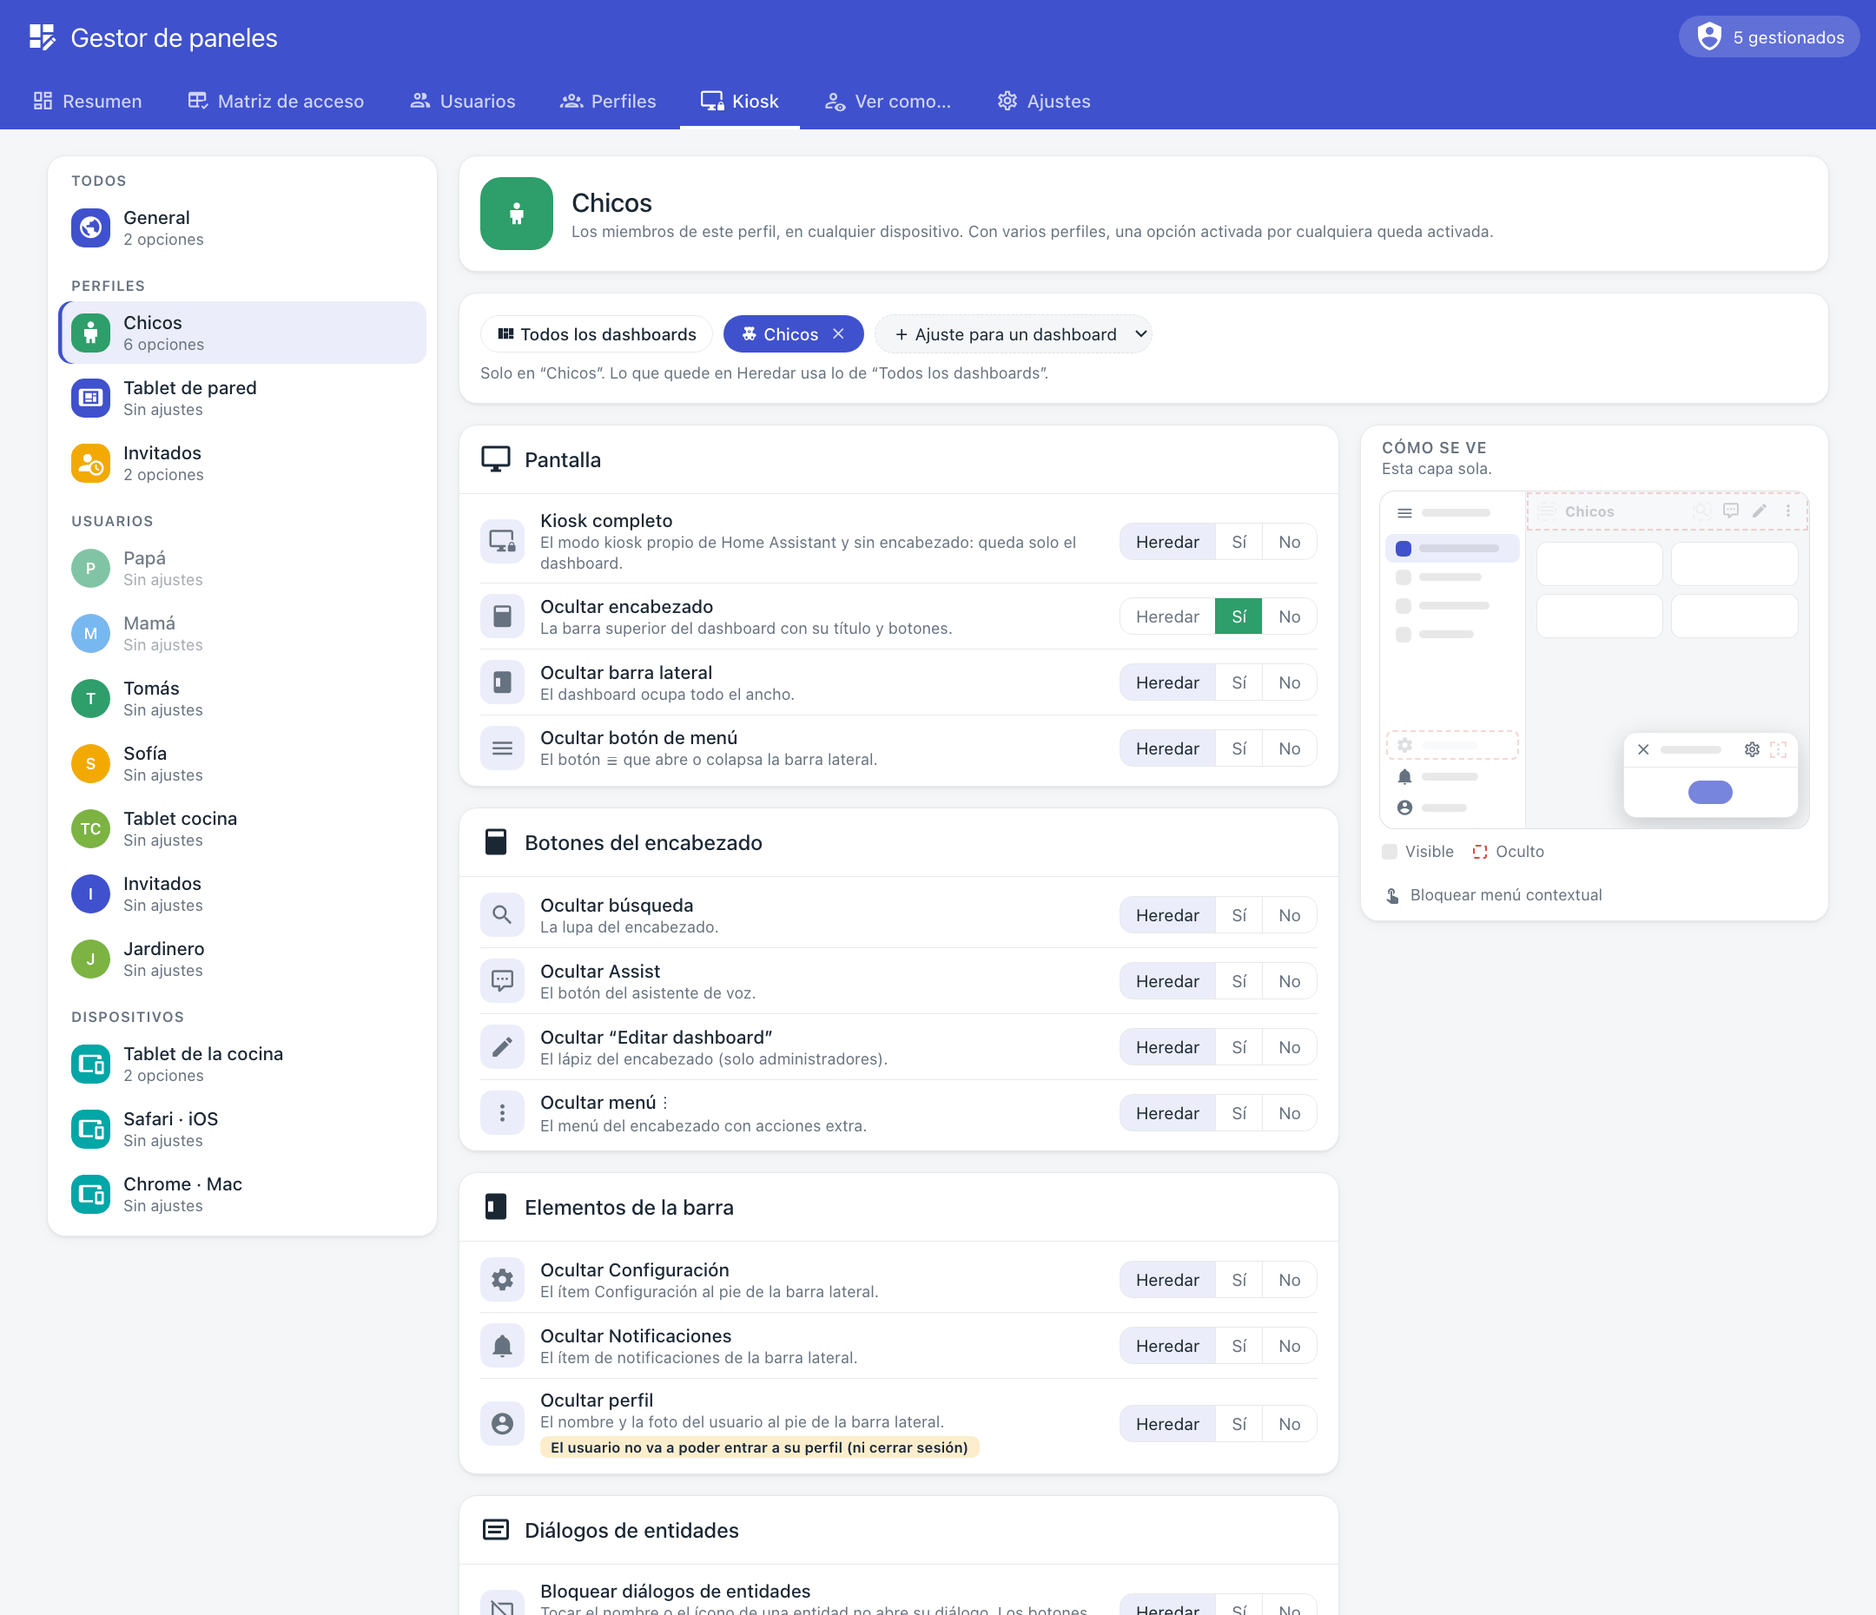
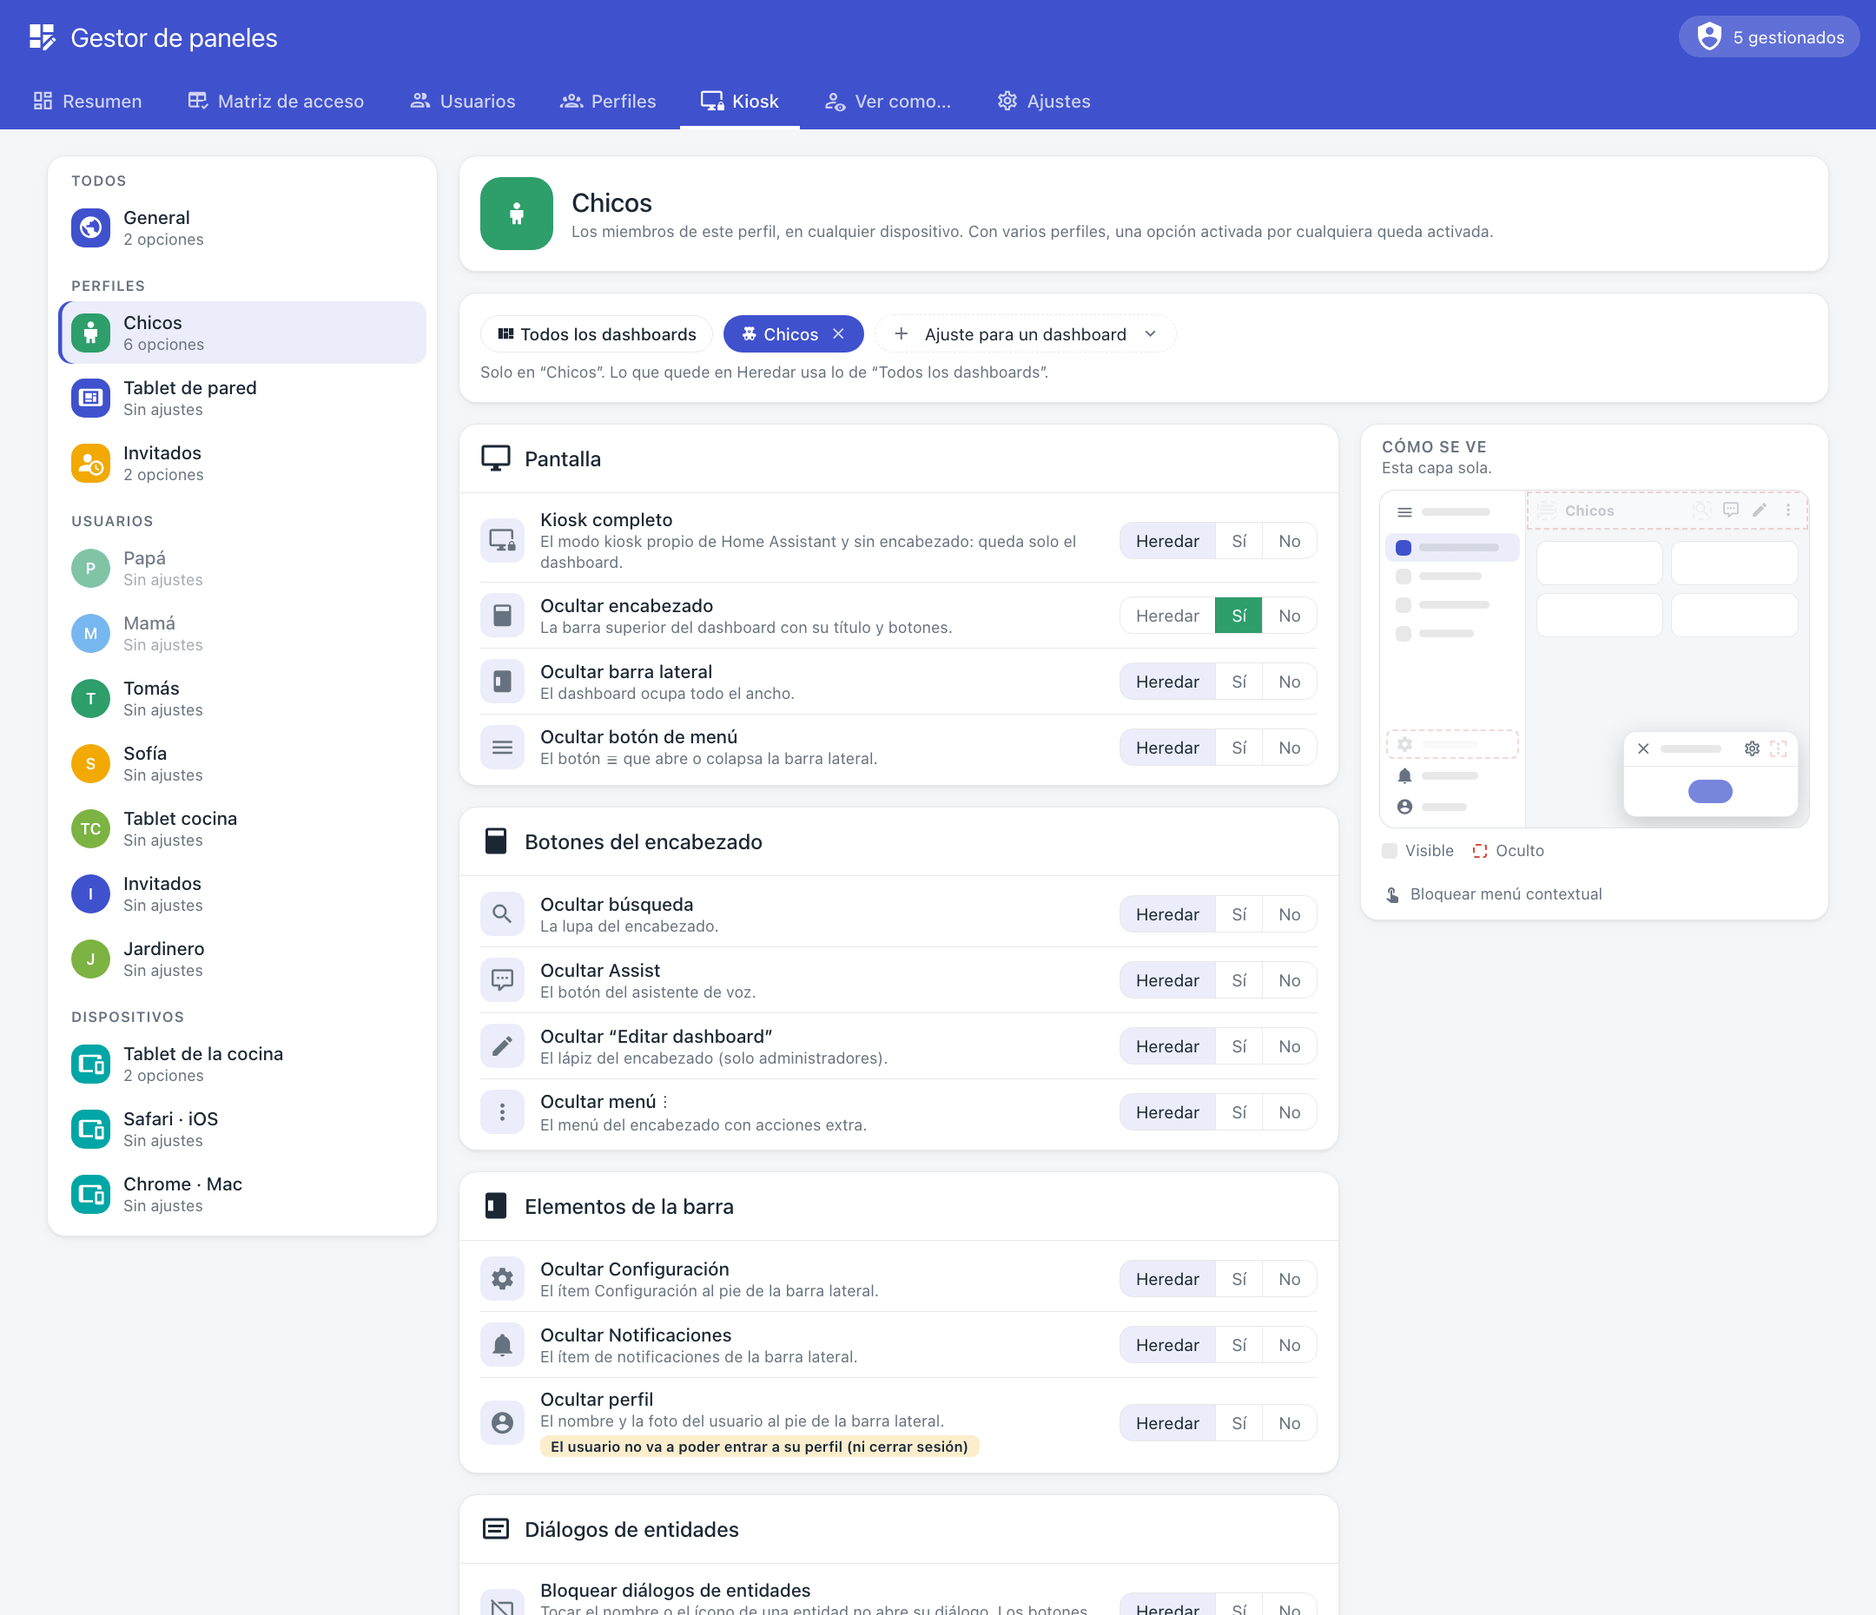
SK Panel Manager 1.0.3: styled drop-downs, notice spacing
- Panel drop-down component replaces every native select (View as user/device/dashboard and the
  kiosk tab's per-dashboard setting): icons and avatars, check on the current choice, keyboard
  arrows, Escape and outside click to close
- The older-version notice (and other notices above a page) has its spacing back; only a notice
  that ends a card drops its bottom margin
- Screenshots regenerated

diff --git a/custom_components/sk_panel_manager/frontend/skpm-panel.js b/custom_components/sk_panel_manager/frontend/skpm-panel.js
@@ -1,15 +1,15 @@
 // SK Panel Manager — admin panel.
 // Dependency-free web component: renders with template strings, uses event delegation
 // and pointer-based drag & drop (mouse + touch), like SK Irrigation Manager.
-import { translator } from "./skpm-i18n.js?v=1.0.2";
-import { STYLES } from "./skpm-styles.js?v=1.0.2";
-import { resolve } from "./skpm-resolver.js?v=1.0.2";
-import { KioskMixin } from "./skpm-kiosk.js?v=1.0.2";
-import { ToolsMixin } from "./skpm-tools.js?v=1.0.2";
+import { translator } from "./skpm-i18n.js?v=1.0.3";
+import { STYLES } from "./skpm-styles.js?v=1.0.3";
+import { resolve } from "./skpm-resolver.js?v=1.0.3";
+import { KioskMixin } from "./skpm-kiosk.js?v=1.0.3";
+import { ToolsMixin } from "./skpm-tools.js?v=1.0.3";
 
 const DOMAIN = "sk_panel_manager";
 // Version of this file; compared with the installed integration to spot a stale browser cache.
-export const PANEL_VERSION = "1.0.2";
+export const PANEL_VERSION = "1.0.3";
 const TABS = [
   ["overview", "mdi:view-dashboard-outline"],
   ["matrix", "mdi:table-check"],
@@ -637,6 +637,31 @@ class SkPanelManagerPanel extends ToolsMixin(KioskMixin(HTMLElement)) {
     </div>`;
   }
 
+  // ------------------------------------------------------------------ dropdown
+  // Styled replacement for <select>. `change` and `data` go through the same _onChange as a select did.
+  // options: [{ value, label, icon?, avatar? }]; `button` overrides the closed look (e.g. an "add" chip).
+  _dropdown({ id, change, data = {}, value = "", options, label = "", button = null, cls = "" }) {
+    const open = this._dd === id;
+    const current = options.find((o) => o.value === value);
+    const attrs = Object.entries(data).map(([k, v]) => ` data-${k}="${esc(v)}"`).join("");
+    const lead = (o) => (o.avatar ? this._avatar(o.avatar, "xs") : o.icon ? icon(o.icon) : "");
+    const shown = button || `${current ? lead(current) : ""}<span>${esc(current ? current.label : "")}</span>${icon("mdi:chevron-down")}`;
+    return `<div class="dd ${cls} ${open ? "open" : ""}" data-dd="${esc(id)}" data-change="${esc(change)}"${attrs}>
+      ${label ? `<span class="ddlabel">${esc(label)}</span>` : ""}
+      <button class="ddbtn" data-action="dd-toggle" data-dd="${esc(id)}" aria-haspopup="listbox" aria-expanded="${open}">${shown}</button>
+      ${open ? `<div class="ddpop" role="listbox">${options.map((o) => `<button class="ddopt ${o.value === value ? "sel" : ""}" role="option"
+        aria-selected="${o.value === value}" data-action="dd-pick" data-dd="${esc(id)}" data-value="${esc(o.value)}">${lead(o)}<span>${esc(o.label)}</span>
+        ${o.value === value ? icon("mdi:check") : ""}</button>`).join("")}</div>` : ""}
+    </div>`;
+  }
+
+  _ddPick(el) {
+    const box = el.closest(".dd");
+    this._dd = null;
+    // Same path as a native select's "change" event.
+    this._onChange({ target: { dataset: box.dataset, value: el.dataset.value, files: null } });
+  }
+
   // ------------------------------------------------------------------ icon picker
   _iconPop(pid, current) {
     const t = this.t;
@@ -684,6 +709,10 @@ class SkPanelManagerPanel extends ToolsMixin(KioskMixin(HTMLElement)) {
   _onClick(ev) {
     if (this._iconPicker && !ev.target.closest(".iconfield")) {
       this._iconPicker = null;
+      this._render();
+    }
+    if (this._dd && !ev.target.closest(".dd")) {
+      this._dd = null;
       this._render();
     }
     const tab = ev.target.closest("[data-tab]");
@@ -767,6 +796,14 @@ class SkPanelManagerPanel extends ToolsMixin(KioskMixin(HTMLElement)) {
         this._selProfile = null;
         break;
       }
+      case "dd-toggle": {
+        this._dd = this._dd === d.dd ? null : d.dd;
+        this._render();
+        // Keyboard users land on the selected option.
+        if (this._dd) (this.shadowRoot.querySelector(".dd.open .ddopt.sel") || this.shadowRoot.querySelector(".dd.open .ddopt"))?.focus();
+        return;
+      }
+      case "dd-pick": this._ddPick(el); return;
       case "profile-color": this._draft.profiles[d.pid].color = d.color; break;
       case "set-default": {
         // Tap the house of a dashboard to start there; tap it again to go back to inherited / unchanged.
@@ -898,6 +935,23 @@ class SkPanelManagerPanel extends ToolsMixin(KioskMixin(HTMLElement)) {
   }
 
   _onKeyDown(ev) {
+    if (this._dd && ev.target.closest?.(".dd")) {
+      const opts = [...this.shadowRoot.querySelectorAll(".dd.open .ddopt")];
+      const i = opts.indexOf(ev.target);
+      if (ev.key === "ArrowDown" || ev.key === "ArrowUp") {
+        ev.preventDefault();
+        const next = i < 0 ? 0 : Math.min(opts.length - 1, Math.max(0, i + (ev.key === "ArrowDown" ? 1 : -1)));
+        opts[next]?.focus();
+        return;
+      }
+      if (ev.key === "Escape") {
+        const id = this._dd;
+        this._dd = null;
+        this._render();
+        this.shadowRoot.querySelector(`.dd[data-dd="${CSS.escape(id)}"] .ddbtn`)?.focus();
+        return;
+      }
+    }
     if (ev.key === "Escape" && this._iconPicker) {
       this._iconPicker = null;
       this._render();

diff --git a/custom_components/sk_panel_manager/frontend/skpm-styles.js b/custom_components/sk_panel_manager/frontend/skpm-styles.js
@@ -263,7 +263,6 @@ ul.sec li ha-icon { --mdc-icon-size: 18px; flex: none; }
 .scopes .chip { padding: 6px 12px; font-size: 13px; }
 .scopes .chip .x { border: 0; background: none; color: inherit; padding: 0 0 0 4px; display: inline-grid; opacity: .8; }
 .scopes .chip .x ha-icon { --mdc-icon-size: 14px; }
-.scopes .addscope { width: auto; padding: 6px 10px; border-radius: 99px; font-size: 13px; border-style: dashed; }
 .mock { position: relative; display: flex; height: 230px; margin: 0 14px; border-radius: 12px; overflow: hidden; border: 1px solid var(--pm-line); background: var(--pm-bg); font-size: 11px; }
 .mock ha-icon { --mdc-icon-size: 14px; color: var(--pm-muted); }
 .mock .off { opacity: .22; outline: 1.5px dashed var(--pm-red); outline-offset: -2px; }
@@ -300,6 +299,31 @@ ul.sec li ha-icon { --mdc-icon-size: 18px; flex: none; }
 .sb .m-legend + .m-note, .sb .m-legend { padding-bottom: 12px; }
 .prow .pt .badge { margin-top: 4px; display: inline-block; }
 
+/* dropdown (replaces <select>) */
+.dd { position: relative; display: grid; gap: 6px; min-width: 0; }
+.ddlabel { font-size: 12px; color: var(--pm-muted); font-weight: 500; }
+.ddbtn { display: flex; align-items: center; gap: 10px; width: 100%; min-width: 0; padding: 8px 12px; border: 1px solid var(--pm-line);
+  border-radius: 10px; background: var(--pm-bg); color: var(--pm-text); text-align: left; font-size: 14px; }
+.ddbtn:hover, .dd.open .ddbtn { border-color: var(--pm-primary); }
+.ddbtn > span:not(.avatar) { flex: 1; min-width: 0; overflow: hidden; text-overflow: ellipsis; white-space: nowrap; }
+.ddbtn > ha-icon { --mdc-icon-size: 20px; color: var(--pm-muted); flex: none; }
+.ddbtn > ha-icon:last-child { transition: transform .15s; }
+.dd.open .ddbtn > ha-icon:last-child { transform: rotate(180deg); }
+.ddpop { position: absolute; z-index: 40; top: 100%; left: 0; margin-top: 6px; min-width: 100%; width: max-content;
+  max-width: min(420px, calc(100vw - 32px)); max-height: 320px; overflow: auto; padding: 6px; display: grid; gap: 2px;
+  background: var(--pm-card); border: 1px solid var(--pm-line); border-radius: 12px; box-shadow: 0 14px 40px rgba(0,0,0,.22); }
+.ddopt { display: flex; align-items: center; gap: 10px; padding: 8px 10px; border: 0; border-radius: 8px; background: none;
+  color: var(--pm-text); text-align: left; font-size: 14px; white-space: nowrap; }
+.ddopt > span:not(.avatar) { flex: 1; min-width: 0; overflow: hidden; text-overflow: ellipsis; }
+.ddopt ha-icon { --mdc-icon-size: 20px; color: var(--pm-muted); flex: none; }
+.ddopt:hover, .ddopt:focus-visible { background: var(--pm-soft); outline: none; }
+.ddopt.sel { font-weight: 600; }
+.ddopt.sel ha-icon:last-child { color: var(--pm-primary); }
+.avatar.xs { width: 24px; height: 24px; font-size: 10px; }
+/* "add a dashboard" chip in the kiosk tab */
+.dd.addscope .ddbtn { width: auto; padding: 6px 12px; border-radius: 99px; border-style: dashed; background: none; font-size: 13px; }
+.dd.addscope .ddbtn > ha-icon { --mdc-icon-size: 16px; }
+
 /* icon picker */
 .iconfield { position: relative; }
 .iconbtn { display: flex; align-items: center; gap: 10px; width: 100%; padding: 7px 12px; border: 1px solid var(--pm-line);
@@ -329,7 +353,7 @@ ul.sec li ha-icon { --mdc-icon-size: 18px; flex: none; }
 .vastat { display: grid; text-align: right; padding-left: 16px; border-left: 1px solid var(--pm-line); }
 .vastat b { font-size: 16px; }
 .banner.ok { background: var(--pm-green-soft); }
-.banner { margin-bottom: 0; }
+.card .banner:last-child, .grid > .banner:last-child { margin-bottom: 0; }
 table.why { width: 100%; border-collapse: collapse; font-size: 13px; }
 table.why td { padding: 7px 8px; border-bottom: 1px solid var(--pm-line); vertical-align: middle; }
 table.why tr:last-child td { border-bottom: 0; }

diff --git a/custom_components/sk_panel_manager/frontend/skpm-tools.js b/custom_components/sk_panel_manager/frontend/skpm-tools.js
@@ -1,7 +1,7 @@
 // "View as…" tab, backup (export / import) and the Kiosk Mode importer of the SK Panel Manager panel.
-import { explainKiosk, resolveKioskFor } from "./skpm-resolver.js?v=1.0.2";
-import { applyKioskImport, convertKioskMode, makeBackup, readBackup } from "./skpm-import.js?v=1.0.2";
-import { KIOSK_GROUPS } from "./skpm-kiosk.js?v=1.0.2";
+import { explainKiosk, resolveKioskFor } from "./skpm-resolver.js?v=1.0.3";
+import { applyKioskImport, convertKioskMode, makeBackup, readBackup } from "./skpm-import.js?v=1.0.3";
+import { KIOSK_GROUPS } from "./skpm-kiosk.js?v=1.0.3";
 
 const esc = (s) => String(s ?? "").replace(/[&<>"']/g, (c) => ({ "&": "&amp;", "<": "&lt;", ">": "&gt;", '"': "&quot;", "'": "&#39;" })[c]);
 const icon = (name) => `<ha-icon icon="${esc(name)}"></ha-icon>`;
@@ -25,10 +25,13 @@ export const ToolsMixin = (Base) => class extends Base {
     const device = this._vaDevice || null;
 
     const pickers = `<div class="card"><div class="body vapick">
-        <label class="field">${esc(t("va_user"))}<select data-change="va-user">${users.map((x) => `<option value="${esc(x.id)}" ${x.id === u.id ? "selected" : ""}>${esc(x.name)}</option>`).join("")}</select></label>
-        <label class="field">${esc(t("va_device"))}<select data-change="va-device"><option value="">${esc(t("va_any_device"))}</option>
-          ${devices.map((d) => `<option value="${esc(d.id)}" ${d.id === device ? "selected" : ""}>${esc(d.name)}</option>`).join("")}</select></label>
-        <label class="field">${esc(t("va_dashboard"))}<select data-change="va-panel">${dashboards.map((d) => `<option value="${esc(d.url_path)}" ${d.url_path === panel ? "selected" : ""}>${esc(this._ptitle(d.url_path))}</option>`).join("")}</select></label>
+        ${this._dropdown({ id: "va-user", change: "va-user", label: t("va_user"), value: u.id,
+          options: users.map((x) => ({ value: x.id, label: x.name, avatar: x })) })}
+        ${this._dropdown({ id: "va-device", change: "va-device", label: t("va_device"), value: device || "",
+          options: [{ value: "", label: t("va_any_device"), icon: "mdi:devices" },
+            ...devices.map((d) => ({ value: d.id, label: d.name, icon: "mdi:tablet-cellphone" }))] })}
+        ${this._dropdown({ id: "va-panel", change: "va-panel", label: t("va_dashboard"), value: panel,
+          options: dashboards.map((d) => ({ value: d.url_path, label: this._ptitle(d.url_path), icon: this._picon(d.url_path) })) })}
       </div></div>`;
 
     // What happens when the user opens the chosen dashboard.

diff --git a/custom_components/sk_panel_manager/frontend/skpm-kiosk.js b/custom_components/sk_panel_manager/frontend/skpm-kiosk.js
@@ -1,6 +1,6 @@
 // Kiosk tab of the SK Panel Manager panel: layers (general, profiles, users, devices), per-dashboard
 // overrides, option groups and a mock of Home Assistant showing what gets hidden.
-import { resolveKioskFor, unmanagedReason } from "./skpm-resolver.js?v=1.0.2";
+import { resolveKioskFor, unmanagedReason } from "./skpm-resolver.js?v=1.0.3";
 
 export const KIOSK_GROUPS = {
   screen: [["kiosk", "mdi:monitor-lock"], ["hide_header", "mdi:page-layout-header"], ["hide_sidebar", "mdi:page-layout-sidebar-left"], ["hide_menubutton", "mdi:menu"]],
@@ -131,7 +131,9 @@ export const KioskMixin = (Base) => class extends Base {
         <button class="chip toggle ${scope === "all" ? "on" : ""}" data-action="k-scope" data-scope="all">${icon("mdi:view-dashboard-variant")}${esc(t("k_all_dashboards"))}</button>
         ${dashOverrides.map((p) => `<span class="chip toggle ${scope === p ? "on" : ""}" data-action="k-scope" data-scope="${esc(p)}">${icon(this._picon(p))}${esc(this._ptitle(p))}
           <button class="x" data-action="k-del-scope" data-scope="${esc(p)}" aria-label="${esc(t("k_remove"))}">${icon("mdi:close")}</button></span>`).join("")}
-        ${free.length ? `<select class="addscope" data-change="k-add-scope"><option value="">＋ ${esc(t("k_add_dashboard"))}</option>${free.map((d) => `<option value="${esc(d.url_path)}">${esc(this._ptitle(d.url_path))}</option>`).join("")}</select>` : ""}
+        ${free.length ? this._dropdown({ id: "k-add", change: "k-add-scope", cls: "addscope",
+          button: `${icon("mdi:plus")}<span>${esc(t("k_add_dashboard"))}</span>${icon("mdi:chevron-down")}`,
+          options: free.map((d) => ({ value: d.url_path, label: this._ptitle(d.url_path), icon: this._picon(d.url_path) })) }) : ""}
       </div>
       <p class="muted small" style="margin:8px 0 0">${esc(scope === "all" ? t("k_scope_all_hint") : t("k_scope_dash_hint", { d: this._ptitle(scope) }))}</p>`;
 

diff --git a/custom_components/sk_panel_manager/const.py b/custom_components/sk_panel_manager/const.py
@@ -3,7 +3,7 @@ from __future__ import annotations
 
 DOMAIN = "sk_panel_manager"
 NAME = "SK Panel Manager"
-VERSION = "1.0.2"
+VERSION = "1.0.3"
 
 STORAGE_KEY = f"{DOMAIN}.data"
 STORAGE_VERSION = 1

diff --git a/CHANGELOG.es.md b/CHANGELOG.es.md
@@ -2,6 +2,13 @@
 
 🇬🇧 [English](CHANGELOG.md) · 🇪🇸 Español
 
+## 1.0.3 — 2026-10-27
+- **Desplegables con el estilo del panel en todos lados:** los menús propios del navegador se reemplazan por un desplegable
+  del panel (íconos, avatares de usuarios, tilde en la opción elegida, flechas del teclado, Escape y click afuera para
+  cerrar) en *Ver como…* y en *Ajuste para un dashboard* de la pestaña Kiosk.
+- Corregido: el aviso de "versión anterior de este panel" (y otros avisos arriba de una página) quedaba pegado a las
+  tarjetas de abajo; recuperó su separación. Los avisos dentro de las tarjetas mantienen su espaciado.
+
 ## 1.0.2 — 2026-10-27
 - **Dashboard por defecto con un toque:** se fue el desplegable. En la tarjeta *Orden y dashboard por defecto* de usuarios y
   perfiles, tocá la casa junto a un dashboard para que el usuario entre ahí; tocala de nuevo para volver a lo heredado. Una

diff --git a/CHANGELOG.md b/CHANGELOG.md
@@ -2,6 +2,13 @@
 
 🇬🇧 English · 🇪🇸 [Español](CHANGELOG.es.md)
 
+## 1.0.3 — 2026-10-27
+- **Styled drop-downs everywhere:** the browser's own select menus are replaced by the panel's drop-down (icons, user
+  avatars, a check on the current choice, keyboard arrows, Escape and click outside to close) in *View as…* and in the
+  kiosk tab's *Setting for one dashboard*.
+- Fixed: the "older version of this panel" notice (and other notices above a page) touched the cards below it; it has its
+  spacing back. Notices inside cards keep their tighter layout.
+
 ## 1.0.2 — 2026-10-27
 - **Default dashboard with one tap:** the drop-down is gone. In the *Order and default* card of users and profiles, tap the
   house next to a dashboard to make it the one the user starts on; tap it again to go back to the inherited one. A faded
